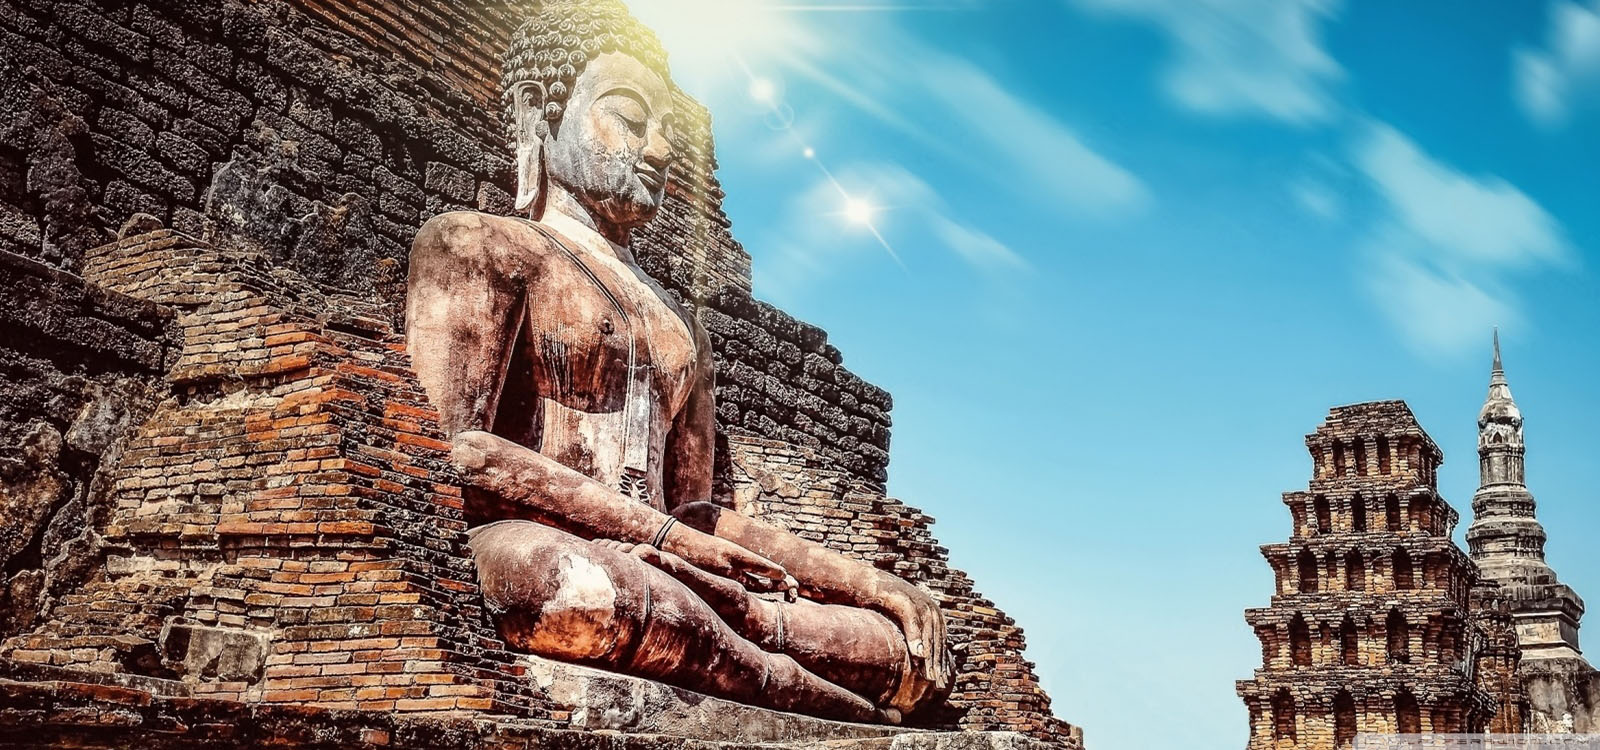
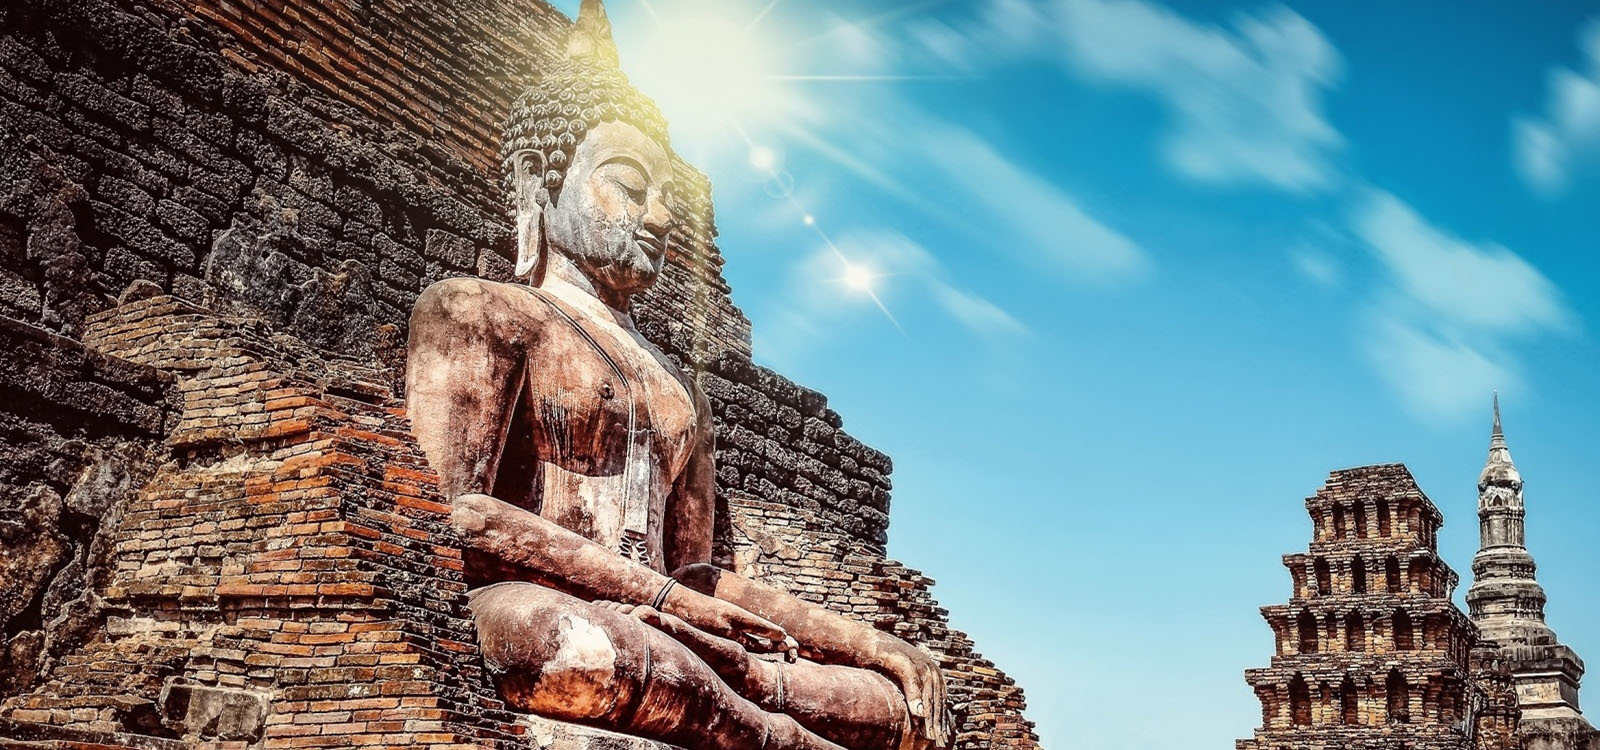
changed some of the pictures

diff --git a/home/templates/home.html b/home/templates/home.html
@@ -14,29 +14,29 @@
                 <li data-target="#myCarousel" data-slide-to="3"></li>
             </ol>
             <!-- Wrapper for slides -->
-            <div class="carousel-inner" role="listbox">
+            <div class="carousel-inner">
                 <div class="item active">
                     <img src="{% static 'images/carousel/1.jpg' %}" class="img-responsive" alt="Thailand">
                         <div class="carousel-caption">
-                            <h3>cultured and historic..</h3>
+                            <h3>relaxing</h3>
                         </div>
                 </div>
                 <div class="item">
                     <img src="{% static 'images/carousel/2.jpg' %}" class="img-responsive" alt="Thailand">
                         <div class="carousel-caption">
-                            <h3>exotic and tropical..</h3>
+                            <h3>cultural</h3>
                         </div>
                 </div>
                 <div class="item">
                     <img src="{% static 'images/carousel/3.jpg' %}" class="img-responsive" alt="Thailand">
                         <div class="carousel-caption">
-                            <h3>friendly and fun loving..</h3>
+                            <h3>explorable</h3>
                         </div>
                 </div>
                 <div class="item">
                     <img src="{% static 'images/carousel/4.jpg' %}" class="img-responsive" alt="Thailand">
                         <div class="carousel-caption">
-                            <h3>explorable</h3>
+                            <h3>historic</h3>
                         </div>
                 </div>
         </div>

diff --git a/static/css/styles.css b/static/css/styles.css
@@ -947,6 +947,9 @@ p.para-agileits {
         font-size: 0.9em;
         padding: 10px;
     }
+	.item img {
+		height: 50%;
+	}
 }
 @media(max-width:767px) {
 	.navbar-collapse.in {
